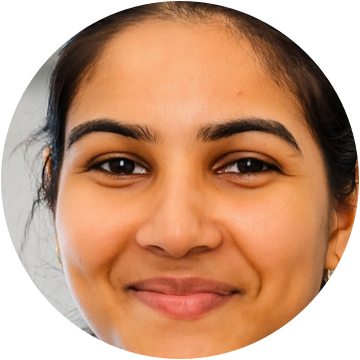
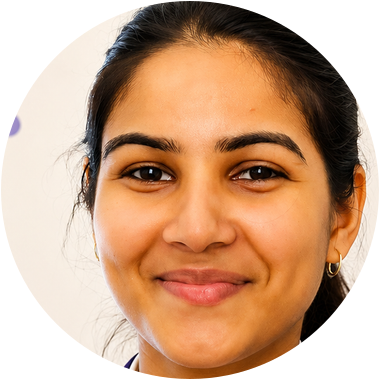
Update teacher photos and shrink mobile profile popup
- Swap in the new uniform studio portraits for every teacher (cards)
- Regenerate circular modal avatars from the new portraits
- Modal is now a compact centered card on mobile (was fullscreen): smaller
  avatar/padding, max-w-sm, max-h-90vh, rounded, scrollable

diff --git a/src/components/NSTeacherCarousel.jsx b/src/components/NSTeacherCarousel.jsx
@@ -153,7 +153,7 @@ function TeacherModal({ teacher, onClose }) {
 
   return (
     <motion.div
-      className="fixed inset-0 z-[10000] flex items-stretch justify-center bg-black/60 backdrop-blur-md md:items-center md:p-6"
+      className="fixed inset-0 z-[10000] flex items-center justify-center bg-black/60 p-3 backdrop-blur-md sm:p-4 md:p-6"
       initial={{ opacity: 0 }}
       animate={{ opacity: 1 }}
       exit={{ opacity: 0 }}
@@ -169,7 +169,7 @@ function TeacherModal({ teacher, onClose }) {
         animate={{ opacity: 1, scale: 1, y: 0 }}
         exit={{ opacity: 0, scale: 0.94, y: 20 }}
         transition={{ type: "spring", stiffness: 260, damping: 26 }}
-        className="relative flex h-full w-full flex-col overflow-y-auto bg-white shadow-2xl md:h-auto md:max-h-[90vh] md:max-w-5xl md:flex-row md:overflow-hidden md:rounded-[2rem]"
+        className="relative flex max-h-[90vh] w-full max-w-sm flex-col overflow-y-auto rounded-3xl bg-white shadow-2xl md:max-h-[88vh] md:max-w-5xl md:flex-row md:overflow-hidden"
       >
         {/* Close */}
         <button
@@ -182,7 +182,7 @@ function TeacherModal({ teacher, onClose }) {
         </button>
 
         {/* Left — circular avatar + rating (blue panel) */}
-        <div className="relative flex shrink-0 flex-col items-center justify-center gap-4 overflow-hidden bg-gradient-to-br from-blue-600 to-indigo-700 p-8 text-center text-white md:w-[38%]">
+        <div className="relative flex shrink-0 flex-col items-center justify-center gap-3 overflow-hidden bg-gradient-to-br from-blue-600 to-indigo-700 p-6 text-center text-white md:w-[38%] md:gap-4 md:p-8">
           {/* decorative orange glow */}
           <div className="pointer-events-none absolute -right-10 -top-12 h-40 w-40 rounded-full bg-orange-400/40 blur-2xl" />
           <div className="pointer-events-none absolute -left-12 bottom-0 h-40 w-40 rounded-full bg-white/10 blur-2xl" />
@@ -191,14 +191,14 @@ function TeacherModal({ teacher, onClose }) {
             <img
               src={teacher.image}
               alt={teacher.name}
-              className="h-40 w-40 rounded-full border-[5px] border-white/90 bg-white object-cover md:h-52 md:w-52"
+              className="h-24 w-24 rounded-full border-[5px] border-white/90 bg-white object-cover sm:h-28 sm:w-28 md:h-52 md:w-52"
             />
           </span>
 
           <div className="relative">
-            <h3 className="text-2xl font-extrabold drop-shadow">{teacher.name}</h3>
+            <h3 className="text-xl font-extrabold drop-shadow md:text-2xl">{teacher.name}</h3>
             <p className="text-sm font-medium text-white/85">{teacher.designation}</p>
-            <div className="mt-3 flex flex-col items-center gap-1">
+            <div className="mt-2 flex flex-col items-center gap-1 md:mt-3">
               <span className="rounded-full bg-white/95 px-3 py-1 shadow-sm">
                 <Stars value={teacher.rating} />
               </span>
